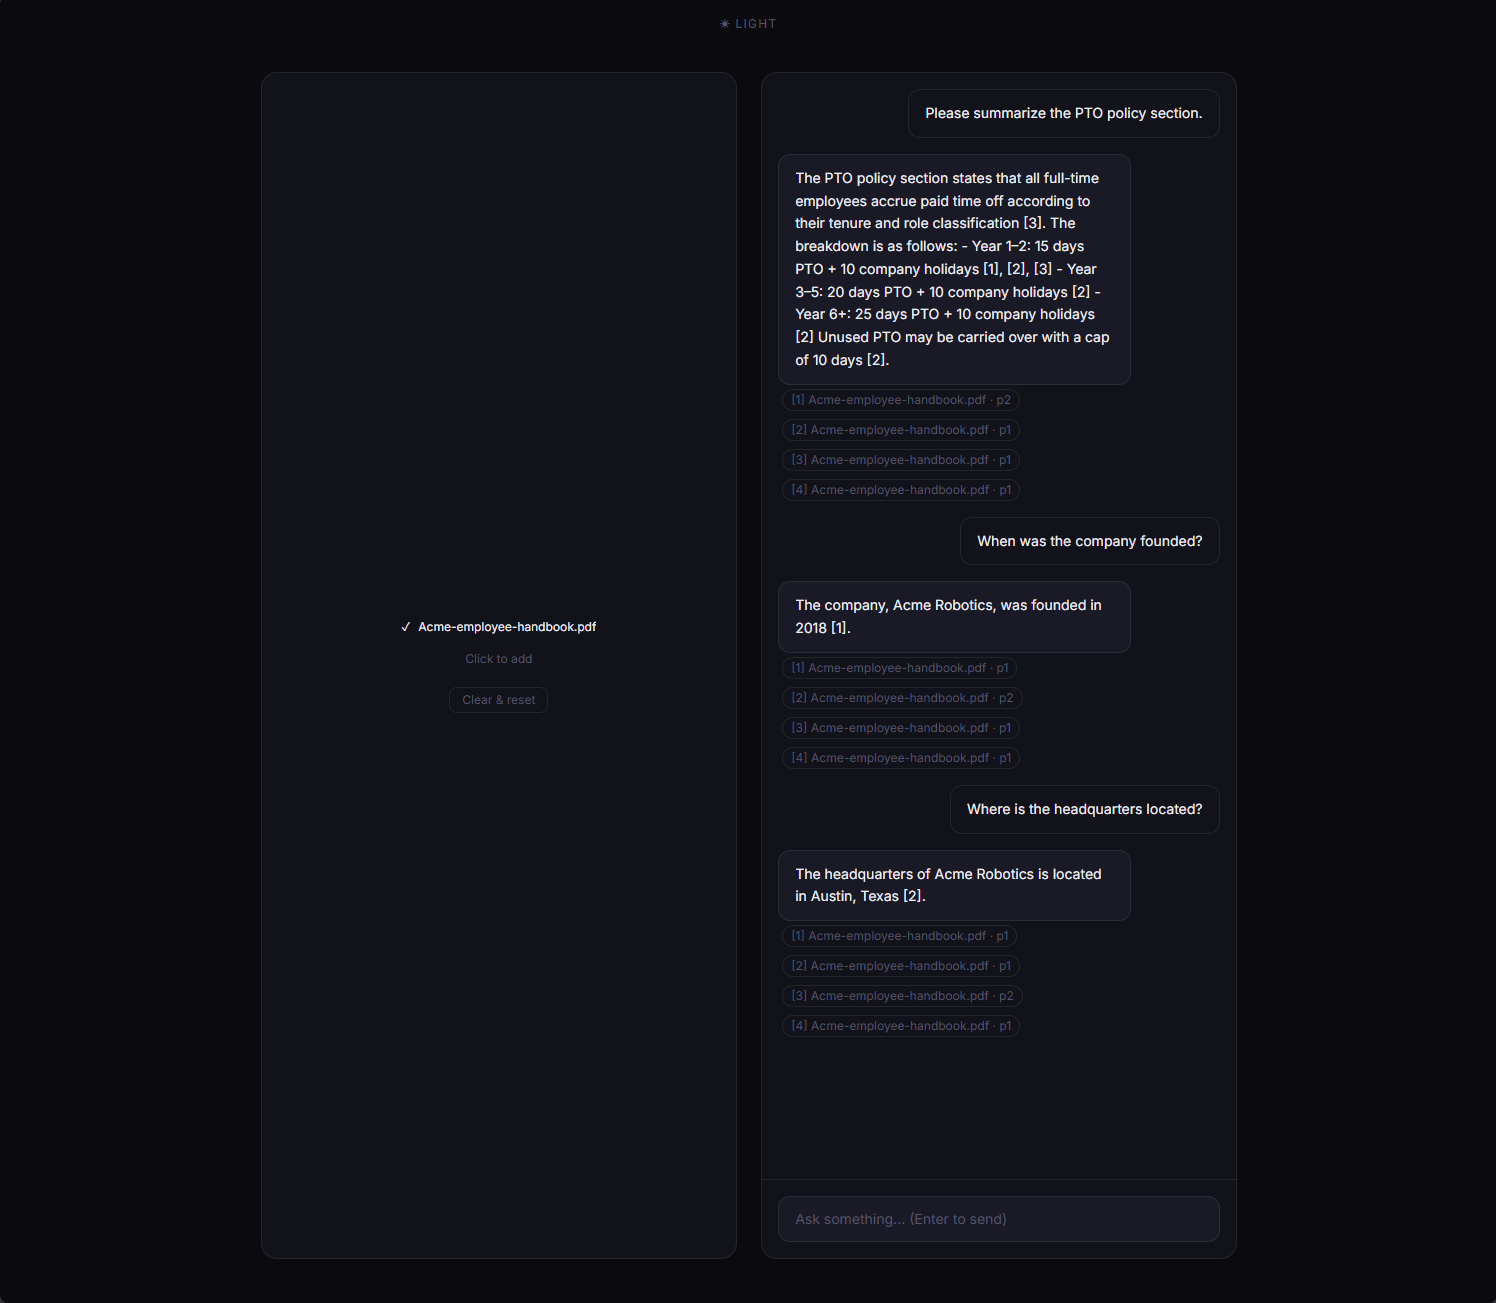
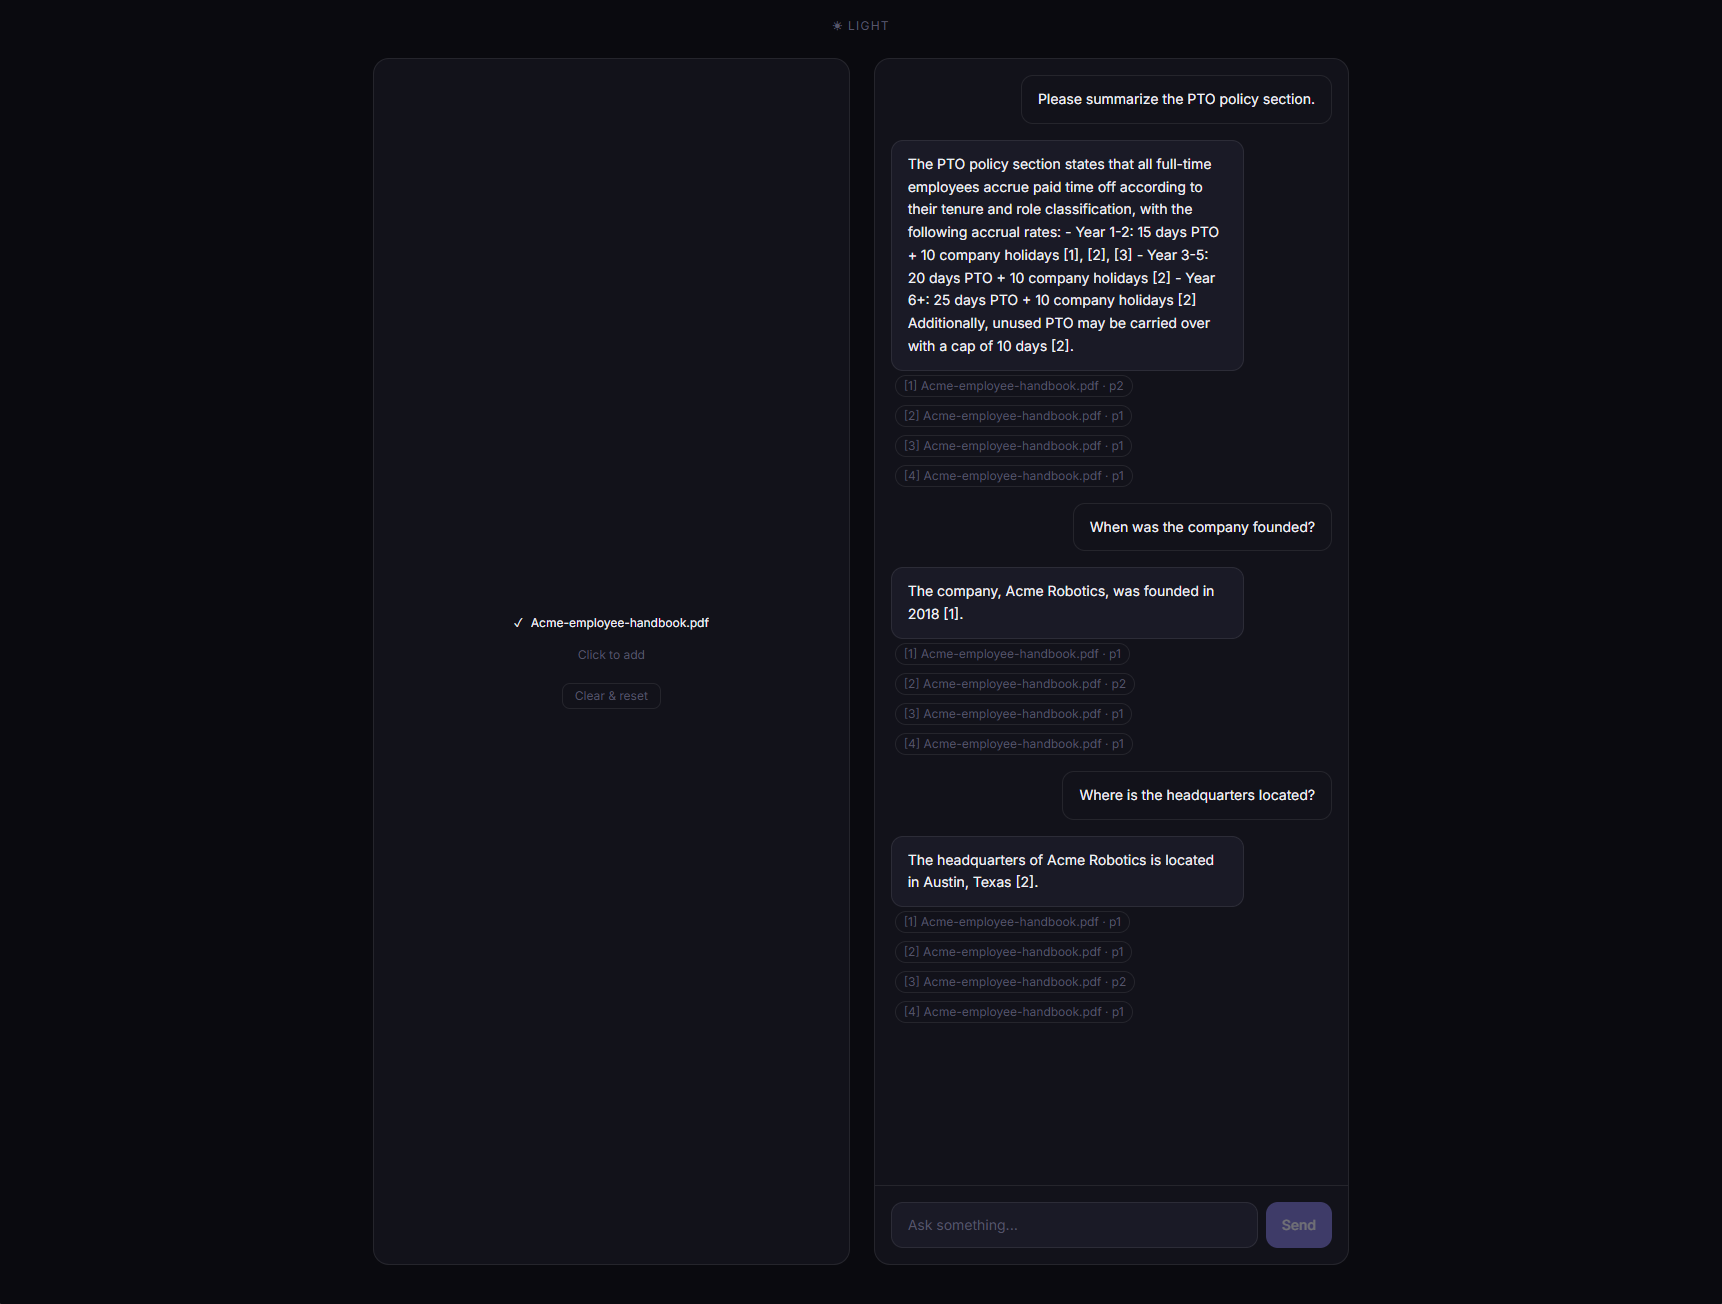
feat: mobile responsive layout + dev tooling + readme cleanup

diff --git a/frontend/src/App.jsx b/frontend/src/App.jsx
@@ -1,4 +1,4 @@
-import { useState, useEffect } from 'react'
+import { useState, useEffect, useRef } from 'react'
 import { uploadDocument, queryDocument, resetCollection } from './api'
 
 export default function App() {
@@ -12,11 +12,17 @@ export default function App() {
   const [messages, setMessages] = useState([])
   const [loading, setLoading] = useState(false)
   const [resetting, setResetting] = useState(false)
+  const [error, setError] = useState(null)
+  const bottomRef = useRef(null)
 
   useEffect(() => {
     document.documentElement.setAttribute('data-theme', theme)
     localStorage.setItem('theme', theme)
   }, [theme])
+
+  useEffect(() => {
+    bottomRef.current?.scrollIntoView({ behavior: 'smooth' })
+  }, [messages, loading])
 
   const toggleTheme = () =>
     setTheme(prev => prev === 'dark' ? 'light' : 'dark')
@@ -29,21 +35,41 @@ export default function App() {
     const selected = e.target.files[0]
     if (!selected) return
     setUploading(true)
+    setError(null)
     try {
       await uploadDocument(selected)
       setFiles(prev => [...prev, selected])
       setUploaded(true)
     } catch (err) {
-      console.error('Upload failed:', err)
+      setError('Upload failed. Make sure the backend is running.')
     } finally {
       setUploading(false)
     }
   }
 
-  const handleKeyDown = async (e) => {
-    if (e.key !== 'Enter' || !question.trim() || !uploaded) return
+  const handleReset = async (e) => {
+    e.stopPropagation()
+    setResetting(true)
+    setError(null)
+    try {
+      await resetCollection()
+      setFiles([])
+      setUploaded(false)
+      setMessages([])
+      setQuestion('')
+      document.getElementById('file-input').value = ''
+    } catch (err) {
+      setError('Reset failed. Make sure the backend is running.')
+    } finally {
+      setResetting(false)
+    }
+  }
+
+  const handleSubmit = async () => {
+    if (!question.trim() || !uploaded || loading) return
     const q = question.trim()
     setQuestion('')
+    setError(null)
     setMessages(prev => [...prev, { role: 'user', text: q }])
     setLoading(true)
     try {
@@ -54,9 +80,10 @@ export default function App() {
         citations: res.citations
       }])
     } catch (err) {
+      setError('Query failed. Make sure the backend is running.')
       setMessages(prev => [...prev, {
         role: 'assistant',
-        text: 'Something went wrong. Try again.',
+        text: 'Something went wrong. Please try again.',
         citations: []
       }])
     } finally {
@@ -64,23 +91,9 @@ export default function App() {
     }
   }
 
-  // add this handler
-const handleReset = async (e) => {
-  e.stopPropagation()
-  setResetting(true)
-  try {
-    await resetCollection()
-    setFiles([])
-    setUploaded(false)
-    setMessages([])
-    setQuestion('')
-    document.getElementById('file-input').value = ''
-  } catch (err) {
-    console.error('Reset failed:', err)
-  } finally {
-    setResetting(false)
+  const handleKeyDown = (e) => {
+    if (e.key === 'Enter') handleSubmit()
   }
-}
 
   return (
     <div className="min-h-screen flex flex-col items-center bg-[var(--bg)]">
@@ -95,13 +108,23 @@ const handleReset = async (e) => {
         </button>
       </div>
 
+      {/* Error banner */}
+      {error && (
+        <div className="w-full max-w-5xl px-6 mt-2">
+          <div className="w-full bg-[var(--danger-dim)] border border-[var(--danger)] text-[var(--danger)] text-xs px-4 py-2 rounded-lg flex justify-between items-center">
+            <span>{error}</span>
+            <button onClick={() => setError(null)} className="ml-4 hover:opacity-70">✕</button>
+          </div>
+        </div>
+      )}
+
       {/* Two panel cards */}
-      <div className="flex gap-6 w-full max-w-5xl px-6 mt-8" style={{ height: 'calc(100vh - 120px)' }}>
+      <div className="flex flex-col md:flex-row gap-6 w-full max-w-5xl px-6 mt-4" style={{ height: 'calc(100vh - 100px)' }}>
 
         {/* Upload panel */}
         <div
           onClick={handleUploadClick}
-          className="w-1/2 min-w-0 flex flex-col items-center justify-center rounded-2xl border border-[var(--border)] bg-[var(--surface)] cursor-pointer hover:border-[var(--border-strong)] hover:bg-[var(--surface-raised)] transition-all duration-200 gap-3 p-6 overflow-hidden"
+          className="h-1/2 md:h-full md:w-1/2 flex flex-col items-center justify-center rounded-2xl border border-[var(--border)] bg-[var(--surface)] cursor-pointer hover:border-[var(--border-strong)] hover:bg-[var(--surface-raised)] transition-all duration-200 gap-3 p-6 overflow-hidden"
         >
           <input
             id="file-input"
@@ -149,7 +172,7 @@ const handleReset = async (e) => {
         </div>
 
         {/* Chat panel */}
-        <div className="w-1/2 min-w-0 flex flex-col rounded-2xl border border-[var(--border)] bg-[var(--surface)]">
+        <div className="h-1/2 md:h-full md:w-1/2 flex flex-col rounded-2xl border border-[var(--border)] bg-[var(--surface)]">
 
           {/* Messages */}
           <div className="flex-1 overflow-y-auto p-4 flex flex-col gap-4">
@@ -188,19 +211,27 @@ const handleReset = async (e) => {
                 </div>
               </div>
             )}
+            <div ref={bottomRef} />
           </div>
 
           {/* Input */}
-          <div className="p-4 border-t border-[var(--border)]">
+          <div className="p-4 border-t border-[var(--border)] flex gap-2">
             <input
               type="text"
               value={question}
               onChange={e => setQuestion(e.target.value)}
               onKeyDown={handleKeyDown}
-              placeholder={uploaded ? 'Ask something... (Enter to send)' : 'Upload a document first'}
+              placeholder={uploaded ? 'Ask something...' : 'Upload a document first'}
               disabled={!uploaded || loading}
-              className="w-full bg-[var(--surface-raised)] text-[var(--text-primary)] placeholder-[var(--text-tertiary)] text-sm px-4 py-3 rounded-xl border border-[var(--border)] focus:outline-none focus:border-[var(--border-strong)] transition-colors duration-200 disabled:opacity-40 disabled:cursor-not-allowed"
+              className="flex-1 bg-[var(--surface-raised)] text-[var(--text-primary)] placeholder-[var(--text-tertiary)] text-sm px-4 py-3 rounded-xl border border-[var(--border)] focus:outline-none focus:border-[var(--border-strong)] transition-colors duration-200 disabled:opacity-40 disabled:cursor-not-allowed"
             />
+            <button
+              onClick={handleSubmit}
+              disabled={!uploaded || loading || !question.trim()}
+              className="px-4 py-3 rounded-xl bg-[var(--accent)] text-white text-sm font-medium hover:bg-[var(--accent-hover)] transition-colors duration-200 disabled:opacity-40 disabled:cursor-not-allowed"
+            >
+              Send
+            </button>
           </div>
 
         </div>

diff --git a/frontend/vite.config.js b/frontend/vite.config.js
@@ -4,4 +4,7 @@ import tailwindcss from '@tailwindcss/vite'
 
 export default defineConfig({
   plugins: [react(), tailwindcss()],
+  server: {
+    host: true
+  }
 })

diff --git a/README.md b/README.md
@@ -4,7 +4,7 @@ Upload your documents. Ask anything. Get answers with sources.
 
 An AI-powered document knowledge assistant built with a full RAG (Retrieval-Augmented Generation) pipeline. Upload documents, ask questions, and get accurate answers with cited sources — locally, for free.
 
-![AIAssistant-RAG interface](screenshots/doc-assist-1.png)
+![AIAssistant-RAG interface](screenshots/doc-assist-mobile.png)
 
 ---
 
@@ -25,7 +25,7 @@ An AI-powered document knowledge assistant built with a full RAG (Retrieval-Augm
 
 **Multi-document query** — querying across a financial report and customer support notes simultaneously, with citations tracking which answer came from which file
 
-![Multi-document query](screenshots/doc-assist-3.png)
+![Multi-document query](screenshots/doc-assist-1.png)
 
 ---
 
@@ -173,6 +173,6 @@ AIAssistant-rag/
 
 - [ ] Image support via OCR (Tesseract)
 - [ ] Streaming responses
-- [ ] Auto-scroll to latest message
-- [ ] Mobile responsive layout
+- [x] Auto-scroll to latest message
+- [x] Mobile responsive layout
 - [ ] Deployable Docker setup